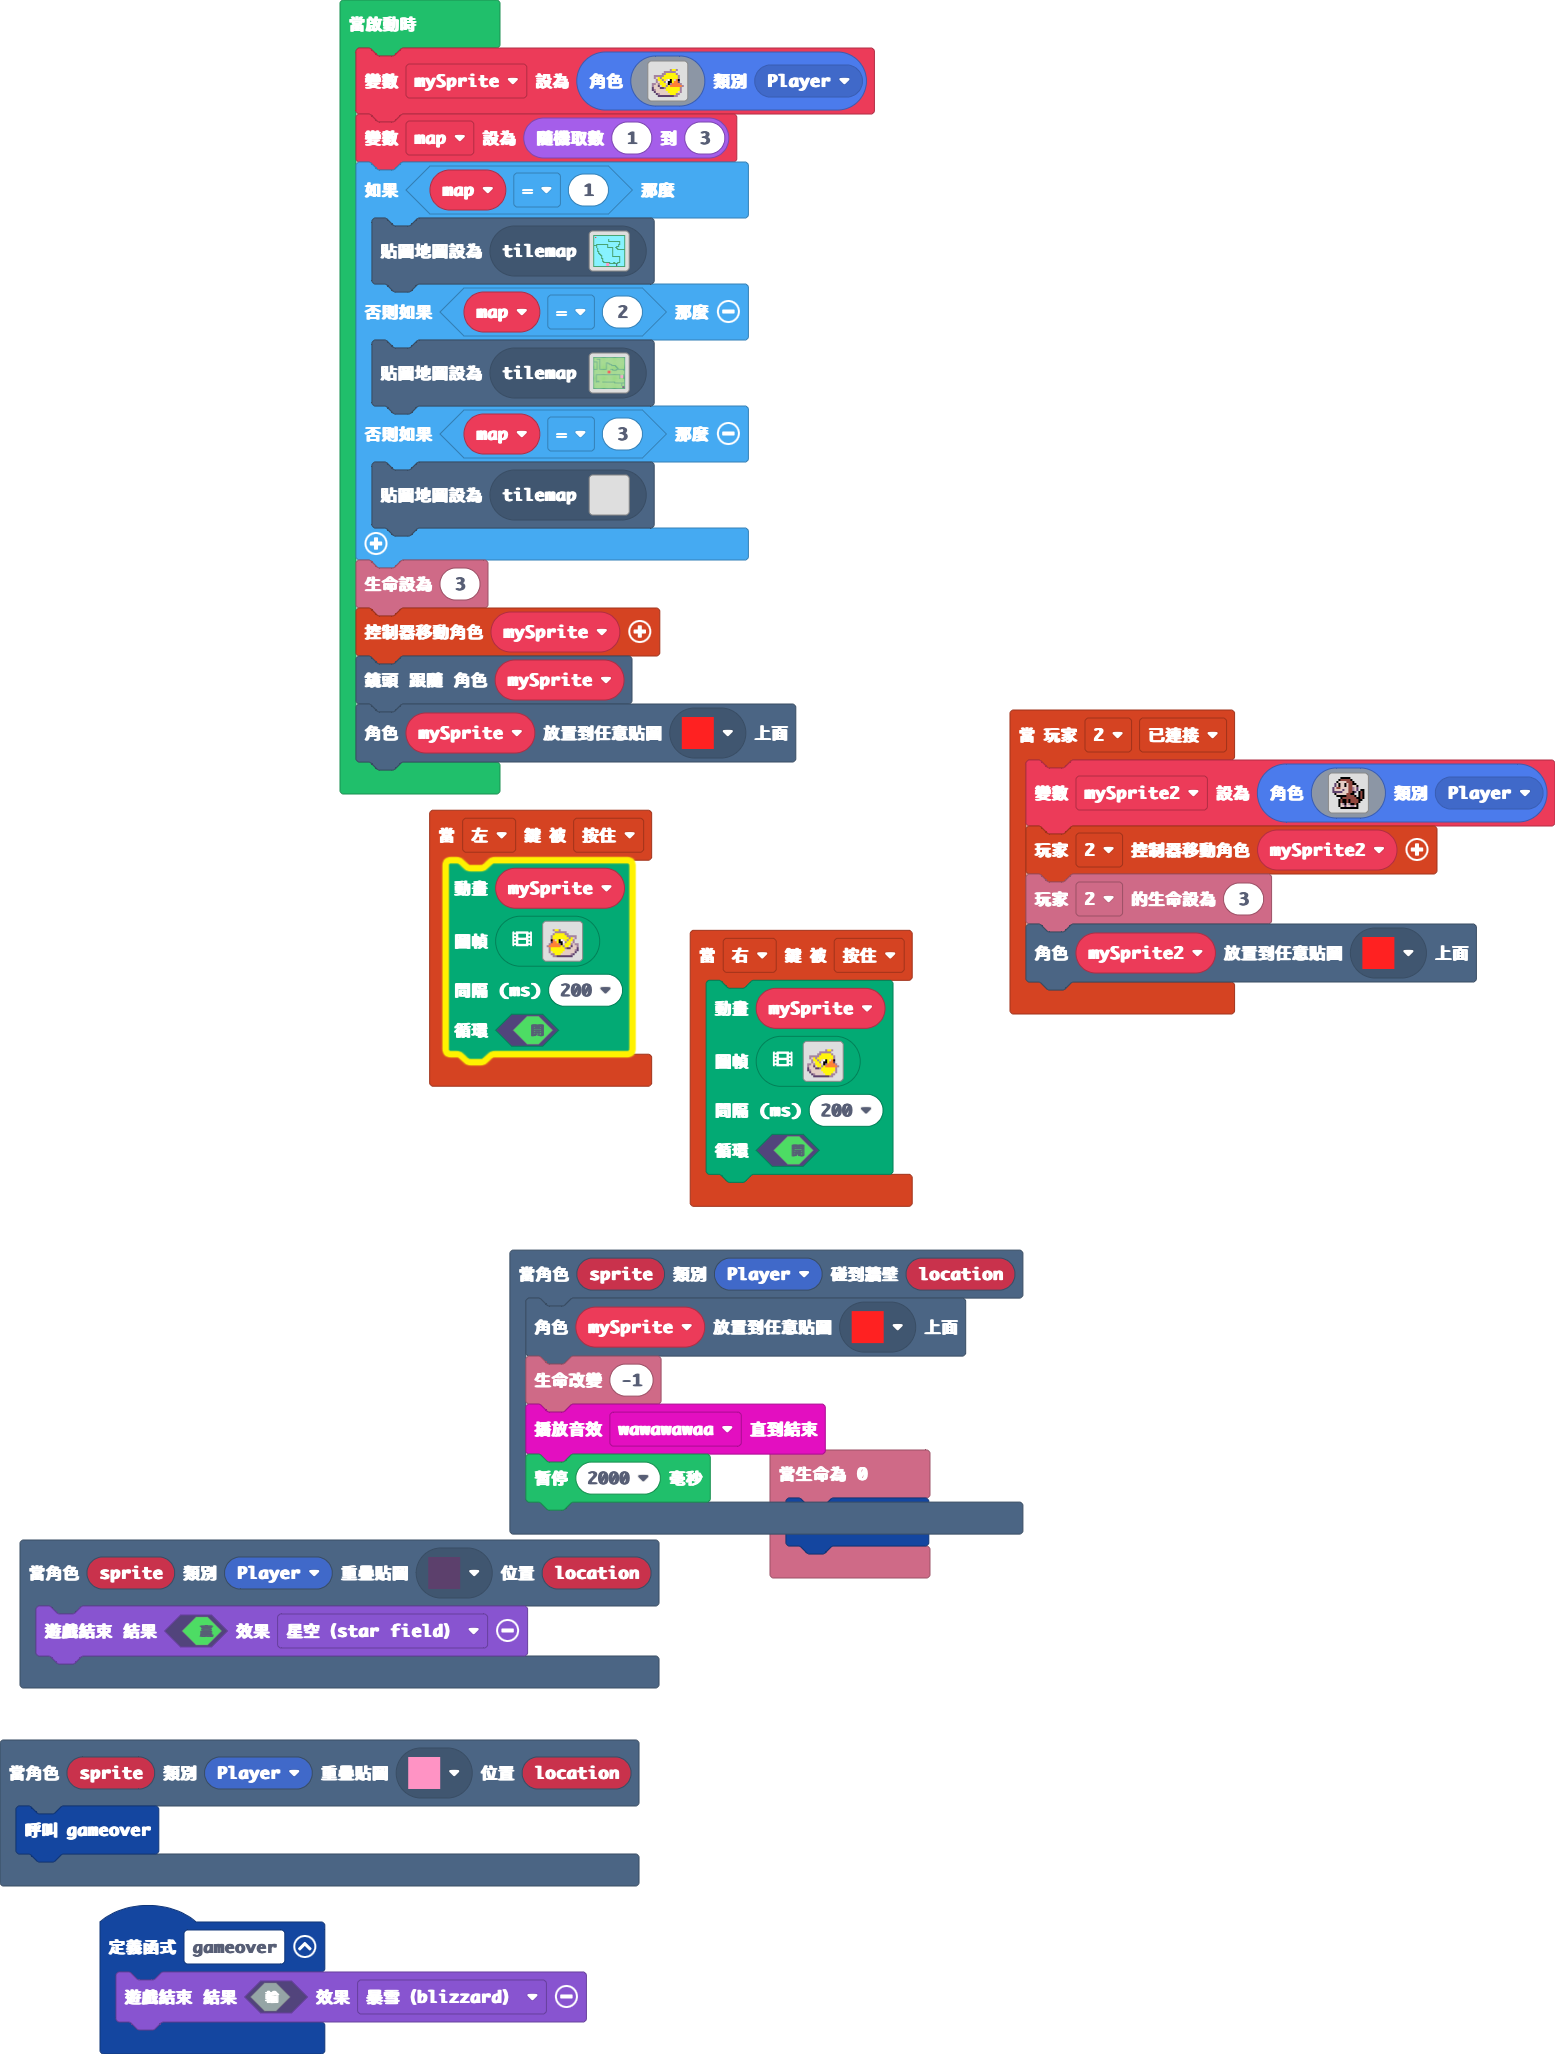
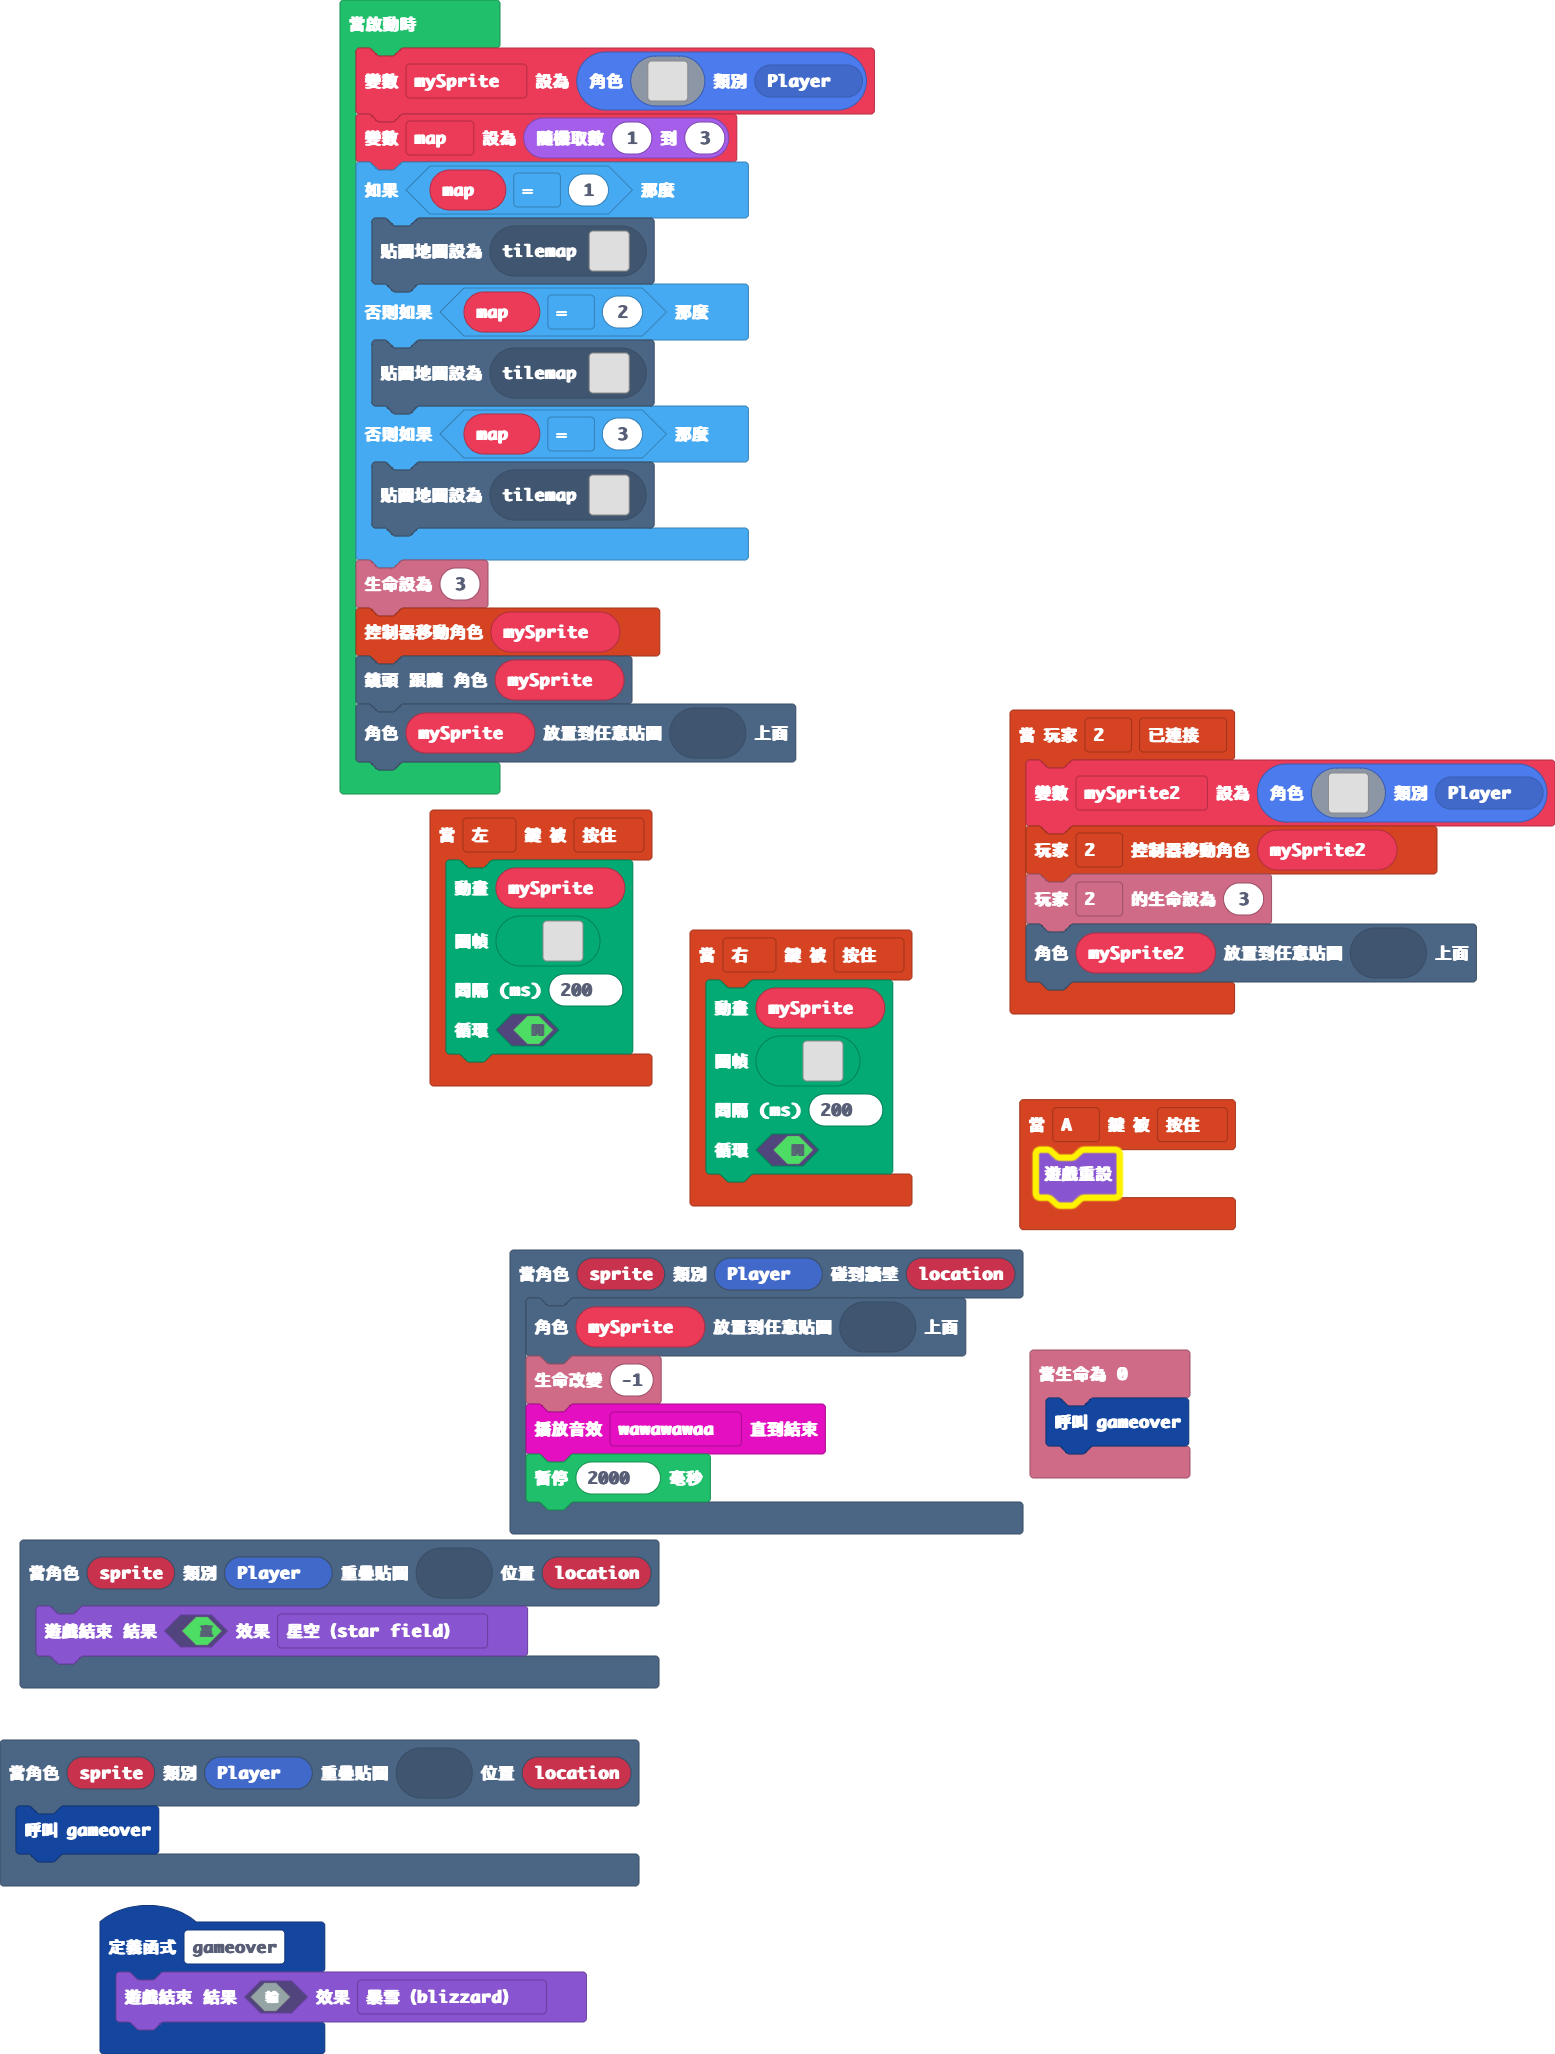
更新 pxt.json, main.blocks, main.ts

diff --git a/main.ts b/main.ts
@@ -30,6 +30,9 @@ controller.player2.onEvent(ControllerEvent.Connected, function () {
     info.player2.setLife(3)
     tiles.placeOnRandomTile(mySprite2, assets.tile`我的貼圖`)
 })
+controller.A.onEvent(ControllerButtonEvent.Pressed, function () {
+    game.reset()
+})
 scene.onOverlapTile(SpriteKind.Player, assets.tile`我的貼圖3`, function (sprite, location) {
     gameover()
 })
